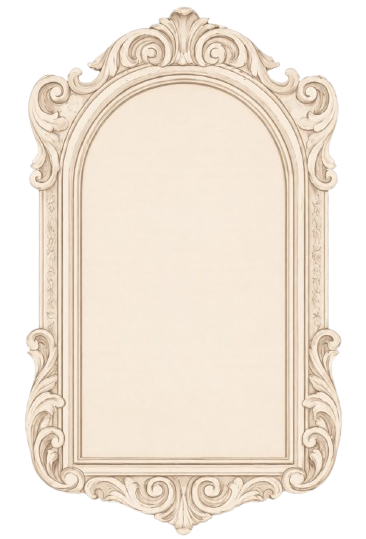
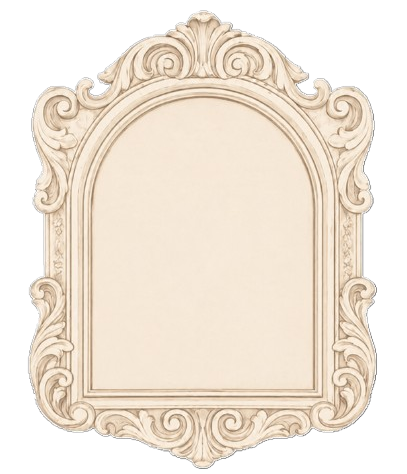
mejora general en esapcio de conteo y posición de tocadisco

Changed region(s): [[0.0601, 0.0, 0.9317, 1.0]]

diff --git a/index.html b/index.html
@@ -73,7 +73,7 @@ const CONFIG = {
 
   ceremonia: {
     titulo:"Ceremonia", lugar:"Iglesia Católica Santa Teresita del Niño Jesús | Entre Ríos",
-    direccion:"Av. Samborondón Km 1.5", hora:"15:45",
+    direccion:"Av. Samborondón Km 1.5", hora:"15:30",
     mapa:"https://maps.app.goo.gl/2iJdDmccJyH13ZBY6"
   },
   recepcion: {
@@ -408,7 +408,7 @@ const CONFIG = {
   }
 
   /* ════════ BANDA VERSÍCULO (verde) ════════ */
-  .verse-band{background:rgba(245,239,231,.6);color:var(--ink);text-align:center;padding:74px 24px;border-top:1px solid var(--line)}
+  .verse-band{color:var(--ink);text-align:center;padding:74px 24px;border-top:1px solid var(--line)}
   .verse-band .sprig{color:var(--green);margin:0 auto 18px}
   .verse{font-family:'Cormorant Garamond',serif;font-style:italic;font-weight:300;font-size:clamp(1.5rem,4.4vw,2.3rem);line-height:1.5;max-width:640px;margin:0 auto}
   .verse-ref{display:block;margin-top:16px;font-size:.66rem;letter-spacing:.3em;text-transform:uppercase;opacity:.8;font-family:'Jost',sans-serif;font-style:normal}
@@ -431,20 +431,20 @@ const CONFIG = {
   .countdown-wrap{position:relative;border-top:1px solid var(--line);overflow:hidden}
   .countdown-wrap .eyebrow{color:var(--terra)}
 
-  .cd-photo{position:relative;padding:64px 24px 224px;text-align:center;background:var(--cream)}
+  .cd-photo{position:relative;padding:16px 24px 220px;text-align:center;background:var(--cream)}
   .cd-photo::before{content:"";position:absolute;inset:0;z-index:0;
     background:url('fotos/Iglesia Interior.jpeg') center 22%/cover no-repeat;
     opacity:.45}
 
-  .cd-frame{position:relative;width:min(320px,76vw);margin:0 auto}
+  .cd-frame{position:relative;width:min(260px,65vw);margin:0 auto}
   .cd-frame-art{display:block;width:100%;height:auto;filter:drop-shadow(0 18px 26px rgba(35,24,18,.4))}
-  .cd-frame-text{position:absolute;inset:19% 20% 16%;display:flex;flex-direction:column;align-items:center;justify-content:center;gap:clamp(6px,2.4vw,16px)}
-  .cd-frame-text .dw{font-size:.72rem;letter-spacing:.32em;text-transform:uppercase;color:var(--dark-terra)}
-  .cd-frame-text .dd{font-family:'Cormorant Garamond',serif;font-weight:500;font-size:clamp(2.8rem,12vw,4.4rem);line-height:1;color:var(--dark-terra)}
-  .cd-frame-text .dm{font-size:.78rem;letter-spacing:.22em;text-transform:uppercase;color:var(--ink-soft)}
+  .cd-frame-text{position:absolute;inset:31% 25% 27%;display:flex;flex-direction:column;align-items:center;justify-content:center;gap:clamp(4px,1.6vw,10px)}
+  .cd-frame-text .dw{font-size:.68rem;letter-spacing:.28em;text-transform:uppercase;color:var(--dark-terra)}
+  .cd-frame-text .dd{font-family:'Cormorant Garamond',serif;font-weight:500;font-size:clamp(2rem,8vw,2.6rem);line-height:1;color:var(--dark-terra)}
+  .cd-frame-text .dm{font-size:.72rem;letter-spacing:.2em;text-transform:uppercase;color:var(--ink-soft)}
   .cd-frame-hr{width:34px;height:1px;background:var(--line)}
 
-  .countdown-card{position:absolute;z-index:1;left:50%;bottom:60px;transform:translateX(-50%);
+  .countdown-card{position:absolute;z-index:1;left:50%;bottom:46px;transform:translateX(-50%);
     width:calc(100% - 56px);max-width:460px;background:var(--cream);
     border:1px solid var(--line);box-shadow:var(--shadow);padding:30px 18px}
   .cd-card-eyebrow{font-size:.6rem;letter-spacing:.28em;text-transform:uppercase;color:var(--terra);margin-bottom:16px}
@@ -460,13 +460,13 @@ const CONFIG = {
   .cd-sep{align-self:flex-start;margin-top:2px;font-family:'Cormorant Garamond',serif;font-weight:500;
     font-size:clamp(1.7rem,6.4vw,2.7rem);line-height:1;color:var(--terra);opacity:.75;flex:none}
   @media(max-width:480px){
-    .cd-photo{padding:52px 20px 198px}
-    .countdown-card{width:calc(100% - 40px);bottom:48px;padding:24px 12px}
+    .cd-photo{padding:14px 20px 194px}
+    .countdown-card{width:calc(100% - 40px);bottom:36px;padding:24px 12px}
   }
   @media(prefers-reduced-motion:reduce){.cd-num.pulse{animation:none}}
 
   /* ════════ NUESTRA HISTORIA ════════ */
-  .story{max-width:1000px;margin:0 auto;padding:90px 24px 60px;text-align:center}
+  .story{max-width:1000px;margin:0 auto;padding:0px 24px 60px;text-align:center}
   .story-grid{display:grid;grid-template-columns:repeat(auto-fit,minmax(240px,1fr));gap:30px;margin-top:46px}
   .story-item .ph{aspect-ratio:6/7;overflow:hidden;border:1px solid var(--line);border-radius:160px 160px 8px 8px}
   .story-item img{width:100%;height:100%;object-fit:cover;filter:var(--photo-filter)}
@@ -488,7 +488,7 @@ const CONFIG = {
   .map-link:hover{background:var(--terra);color:var(--cream)}
 
   .itin{max-width:520px;margin:64px auto 0}
-  .itin .eyebrow{display:block;text-align:center;margin-bottom:26px}
+  .itin-title{font-family:'Cormorant Garamond',serif;font-weight:500;font-size:1.9rem;text-align:center;margin-bottom:26px}
   .itin-row{display:flex;align-items:center;gap:20px;padding:14px 0;border-bottom:1px dashed var(--line)}
   .itin-row:last-child{border-bottom:0}
   .itin-row .t{font-family:'Cormorant Garamond',serif;font-size:1.5rem;color:var(--dark-terra);min-width:78px;text-align:right}
@@ -513,7 +513,7 @@ const CONFIG = {
   @media(max-width:560px){.dress-look{max-width:170px}.dl-name{font-size:1.25rem}}
 
   /* ════════ REGALO ════════ */
-  .gift{max-width:600px;margin:0 auto;padding:80px 24px;text-align:center}
+  .gift{max-width:600px;margin:0 auto;padding:0px 24px;text-align:center}
   .gift .sprig{margin:0 auto 14px;color:var(--green)}
   .gift h3{font-family:'Cormorant Garamond',serif;font-weight:400;font-size:clamp(1.8rem,5vw,2.5rem);margin-bottom:12px}
   .gift p{color:var(--ink-soft);max-width:500px;margin:0 auto}
@@ -612,7 +612,7 @@ const CONFIG = {
   .tl-ico{width:132px;height:120px;display:inline-block;margin-bottom:6px}
   .tl-ico img{width:100%;height:100%;object-fit:contain;display:block}
   .tl-ev{font-family:'Cormorant Garamond',serif;font-size:1.3rem;color:var(--ink);line-height:1.2}
-  .tl-t{font-size:.74rem;letter-spacing:.18em;text-transform:uppercase;color:var(--terra);margin-top:2px}
+  .tl-t{font-size:.82rem;letter-spacing:.18em;text-transform:uppercase;color:var(--terra);margin-top:2px}
   @media(max-width:540px){
     .tl-item{padding:14px 10px}
     .tl-dot{top:22px}
@@ -620,7 +620,7 @@ const CONFIG = {
     .tl-item:nth-child(even) .tl-dot{left:-4px}
     .tl-ico{width:88px;height:80px;margin-bottom:4px}
     .tl-ev{font-size:1.05rem}
-    .tl-t{font-size:.62rem;letter-spacing:.12em}
+    .tl-t{font-size:.82rem;letter-spacing:.12em}
   }
   @media(max-width:380px){
     .tl-item{padding:12px 6px}
@@ -722,6 +722,13 @@ const CONFIG = {
   </div>
 </section>
 
+<!-- ════════ ¡NOS CASAMOS! + VIDEO ════════ -->
+<section class="nos reveal">
+  <h3>¡Nos casamos!</h3>
+  <p id="mensaje"></p>
+  <div class="video-wrap" id="videoWrap" style="display:none"></div>
+</section>
+
 <!-- ════════ TOCADISCOS ════════ -->
 <section class="turntable-wrap reveal">
   <div class="tt-glow"></div>
@@ -743,13 +750,6 @@ const CONFIG = {
   <p class="verse serif" id="verse">“…”
     <span class="verse-ref" id="verseRef"></span>
   </p>
-</section>
-
-<!-- ════════ ¡NOS CASAMOS! + VIDEO ════════ -->
-<section class="nos reveal">
-  <h3>¡Nos casamos!</h3>
-  <p id="mensaje"></p>
-  <div class="video-wrap" id="videoWrap" style="display:none"></div>
 </section>
 
 <!-- ════════ COUNTDOWN ════════ -->
@@ -803,7 +803,7 @@ const CONFIG = {
     <div class="card">
       <div class="licon licon-photo"><img src="fotos/Ceremonia acuarela.png" alt="Ceremonia"></div>
       <h3 id="cTitle">Ceremonia</h3>
-      <div class="hr" id="cHora">15:45</div>
+      <div class="hr" id="cHora">15:30</div>
       <div class="place" id="cLugar">—</div>
       <div class="addr" id="cDir">—</div>
       <a class="map-link" id="cMapa" target="_blank" rel="noopener">Cómo llegar</a>
@@ -818,7 +818,7 @@ const CONFIG = {
     </div>
   </div>
   <div class="itin">
-    <span class="eyebrow">Itinerario</span>
+    <h3 class="itin-title">Itinerario</h3>
     <div class="timeline" id="timeline"></div>
   </div>
 </section>